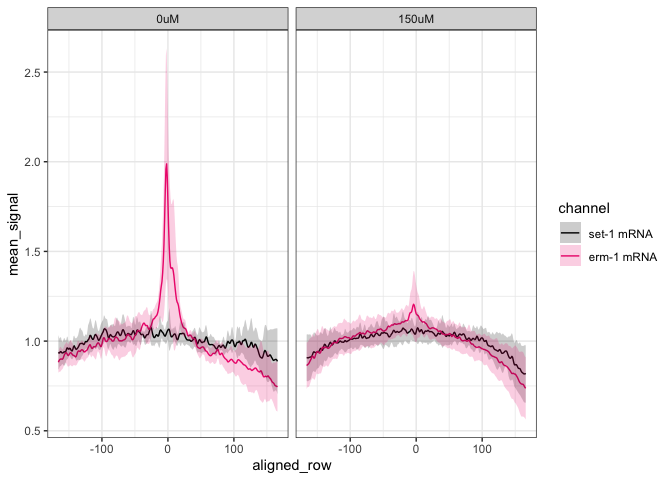
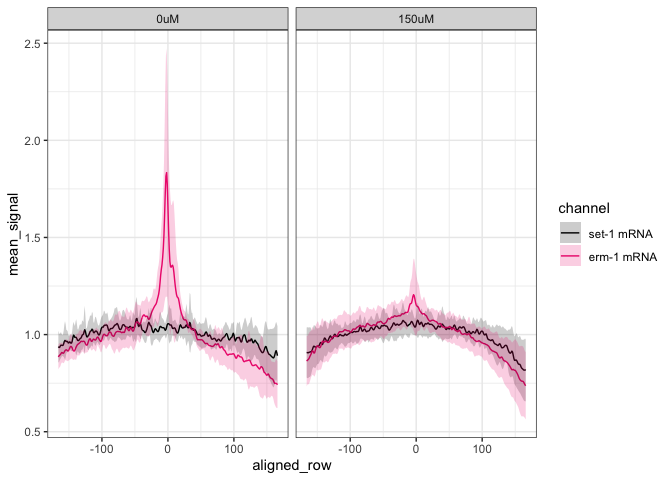
update nocodazole analysis

diff --git a/01_nocodazole_treatments/intensity_scan_analysis/README.md b/01_nocodazole_treatments/intensity_scan_analysis/README.md
@@ -28,6 +28,8 @@ Erin Osborne Nishimura
   - [Merged and averaged data](#merged-and-averaged-data)
   - [Stats](#stats)
   - [Rep- and n-values](#rep--and-n-values)
+  - [2-cell embryos selected for each
+    replicate](#2-cell-embryos-selected-for-each-replicate)
 - [Session info](#session-info)
 
 ## Load the libraries
@@ -61,7 +63,7 @@ Nocodazole was working by reporting the TBB-2::GFP patterning.
 
 ``` r
 # import the data
-control_1 <- read.table(file = "../01_input/2025-03-13_1033_datafile_for_220914_0uM_Noco_wNT002_Rep1.txt", header = FALSE, sep = "\t")
+control_1 <- read.table(file = "../01_input/2026-03-13_1033_datafile_for_220914_0uM_Noco_wNT002_Rep1.txt", header = FALSE, sep = "\t")
 control_2 <- read.table(file = "../01_input/2026-03-13_0121_datafile_for_231112_0uM_Noco_wNT002_Rep2.txt", header = FALSE, sep = "\t")
 
 test_1 <- read.table(file = "../01_input/2026-03-14_0622_datafile_for_220914_150uM_Noco_wNT002_Rep1.txt", header = FALSE, sep = "\t")
@@ -96,27 +98,7 @@ colnames(test_4) <- c("file", "channel", col_times)
 #dim(test_4)
 
 # Example of what this looks like...
-control_1[1:7,1:8]
-```
-
-    ##                                          file channel         1          2
-    ## 1                                        file channel     0.000     0.1072
-    ## 2 220914_permed_wNT002_0uM_Noco_09_R3D_D3D.dv     ch2  4927.838  4955.0391
-    ## 3 220914_permed_wNT002_0uM_Noco_09_R3D_D3D.dv     ch1  3282.429  3204.0681
-    ## 4 220914_permed_wNT002_0uM_Noco_11_R3D_D3D.dv     ch2  6553.232  6475.7100
-    ## 5 220914_permed_wNT002_0uM_Noco_11_R3D_D3D.dv     ch1 11180.594 10908.9131
-    ## 6 220914_permed_wNT002_0uM_Noco_16_R3D_D3D.dv     ch2  4500.523  4653.0015
-    ## 7 220914_permed_wNT002_0uM_Noco_16_R3D_D3D.dv     ch1  6357.355  6320.0615
-    ##            3          4          5         6
-    ## 1     0.2144     0.3215     0.4287    0.5359
-    ## 2  4944.1055  4942.7622  4938.8066 4930.8765
-    ## 3  3141.3899  3096.0930  3082.9082 3110.7231
-    ## 4  6447.5361  6479.0288  6555.7827 6661.5508
-    ## 5 10611.4062 10339.7393 10037.0146 9899.0576
-    ## 6  4767.8940  4797.5332  4711.6953 4564.0063
-    ## 7  6328.0981  6306.6831  6297.7476 6301.1558
-
-``` r
+#control_1[1:7,1:8]
 #control_2[1:9,1:8]
 #test_1[1:3,1:8]
 #test_2[1:9,1:8]
@@ -133,12 +115,7 @@ Merge the datasets together
 
 ``` r
 # Extract out the salient information from the filename and pivot the data longer - "permed" version
-control_1_exp <- control_1[2:dim(control_1)[1],] %>%
-  separate_wider_delim(file, delim = "_", names = c("date", NA, "strain", "conc", NA, "embryoID", NA, NA)) %>%
-  pivot_longer(cols = `1`:`333`, names_to = "xpoint", values_to = "intensity") %>%
-  mutate(unique_id = paste(date, strain, conc, embryoID, channel, sep = "_"))
-
-test_1_exp <- test_1[2:dim(test_1)[1],1:335] %>%
+control_1_exp <- control_1[2:dim(control_1)[1],1:335] %>%
   separate_wider_delim(file, delim = "_", names = c("date", NA, "strain", "conc", NA, "embryoID", NA, NA)) %>%
   pivot_longer(cols = `1`:`333`, names_to = "xpoint", values_to = "intensity") %>%
   mutate(unique_id = paste(date, strain, conc, embryoID, channel, sep = "_"))
@@ -148,6 +125,14 @@ control_2_exp <- control_2[2:dim(control_2)[1],1:335] %>%
   separate_wider_delim(file, delim = "_", names = c("date", "strain", "conc", NA, "embryoID", NA, NA)) %>%
   pivot_longer(cols = `1`:`333`, names_to = "xpoint", values_to = "intensity") %>%
   mutate(unique_id = paste(date, strain, conc, embryoID, channel, sep = "_"))
+
+
+test_1_exp <- test_1[2:dim(test_1)[1],1:335] %>%
+  separate_wider_delim(file, delim = "_", names = c("date", NA, "strain", "conc", NA, "embryoID", NA, NA)) %>%
+  pivot_longer(cols = `1`:`333`, names_to = "xpoint", values_to = "intensity") %>%
+  mutate(unique_id = paste(date, strain, conc, embryoID, channel, sep = "_"))
+
+
 
 test_2_exp <- test_2[2:dim(test_2)[1],1:335] %>%
   separate_wider_delim(file, delim = "_", names = c("date", "strain", "conc", NA, "embryoID", NA, NA)) %>%
@@ -246,8 +231,8 @@ table(nocodazole_norm_total$channel, nocodazole_norm_total$conc)
 
     ##      
     ##        0uM 150uM
-    ##   ch1 2331  5328
-    ##   ch2 2331  5328
+    ##   ch1 3330  5328
+    ##   ch2 3330  5328
 
 ``` r
 head(nocodazole_norm_total)
@@ -409,7 +394,7 @@ summary(log(foldChange_calc$fc_enrich, base = 2))
 ```
 
     ##     Min.  1st Qu.   Median     Mean  3rd Qu.     Max. 
-    ## -0.13913  0.05686  0.13908  0.22562  0.21840  1.50658
+    ## -0.13913  0.01306  0.12552  0.22447  0.22114  1.50658
 
 ``` r
 # plot the data - I picked two different ways to display the data
@@ -418,7 +403,7 @@ summary(log(foldChange_calc$fc_enrich, base = 2))
 d <- ggplot(data = foldChange_calc, aes(x = as.factor(channel), y = log(fc_enrich, base = 2), fill = conc))+
   geom_boxplot(outlier.shape = NA)+
   geom_jitter(position=position_jitterdodge())+
-  scale_y_continuous(limits = c(-0.5, 1.75)) +
+  scale_y_continuous(limits = c(-0.5, 2)) +
   geom_hline(yintercept = 0, linetype = "dashed") +
   scale_fill_manual(values = c("0uM" = "darkgray", "150uM" = "#2989ca"))+
   labs(y = "log2 FoldChange Enrichment of mRNA \n(mRNA intensity at 0 / mean mRNA intensity at -100 and 100)", x = "mRNA") +
@@ -459,10 +444,10 @@ stats_wilcox
 ```
 
     ## # A tibble: 2 × 10
-    ##   channel .y.   group1 group2    n1    n2 statistic       p   p.adj p.adj.signif
-    ##   <fct>   <chr> <chr>  <chr>  <int> <int>     <dbl>   <dbl>   <dbl> <chr>       
-    ## 1 ch1     fc_e… 0uM    150uM      7    16        62 0.720   0.720   ns          
-    ## 2 ch2     fc_e… 0uM    150uM      7    16       101 0.00148 0.00295 **
+    ##   channel .y.    group1 group2    n1    n2 statistic       p  p.adj p.adj.signif
+    ##   <fct>   <chr>  <chr>  <chr>  <int> <int>     <dbl>   <dbl>  <dbl> <chr>       
+    ## 1 ch1     fc_en… 0uM    150uM     10    16        76 0.856   0.856  ns          
+    ## 2 ch2     fc_en… 0uM    150uM     10    16       131 0.00605 0.0121 *
 
 ### Save the plots
 
@@ -571,16 +556,68 @@ write.table(stats_wilcox, file = filename, sep = "\t", quote = FALSE, row.names 
 noco_metadata <- nocodazole_norm_total %>% 
   select("strain", "date", "conc", "embryoID", "channel")
 
+# pick only the unique ones
+noco_metadata <- unique(noco_metadata)
+
+#dim(noco_metadata)
 #str(noco_metadata)
 # head(noco_metadata)
 
 # tabulate the number of n-values. Divide by 2 because both set-3 and erm-1 are both counted as a data point
 rep_and_n1 <- table(noco_metadata$conc, noco_metadata$date)/2
 
+rep_and_n1
+```
+
+    ##        
+    ##         220914 230210 231112 231114
+    ##   0uM        6      0      4      0
+    ##   150uM      1      5      8      2
+
+``` r
 # Save the rep- and n-values:
 today <- format(Sys.Date(), "%y%m%d")
 filename <- paste("../04_outputData/", today, "_data4_noco_n_linescan.txt", sep = "")
 write.table(rep_and_n1, file = filename, sep = "\t", quote = FALSE, row.names = TRUE)
+```
+
+### 2-cell embryos selected for each replicate
+
+``` r
+# what are the names of the embryos for each replicate?
+
+# use this
+#dim(noco_metadata)
+noco_metadata_unique <- unique(noco_metadata)
+#dim(noco_metadata_unique)
+
+# capture the list of embryos used
+embryoLists <- noco_metadata_unique %>%
+  group_by(strain, date, conc, channel) %>%
+  summarise(embryoIDList = list(embryoID), .groups = "drop") %>%
+  rowwise() %>% 
+  mutate(embryo_names = paste(embryoIDList, collapse = ", ")) %>% 
+  ungroup() %>%
+  select(-embryoIDList)
+
+head(embryoLists)
+```
+
+    ## # A tibble: 6 × 5
+    ##   strain date   conc  channel embryo_names          
+    ##   <chr>  <chr>  <chr> <chr>   <chr>                 
+    ## 1 wNT002 220914 0uM   ch1     09, 10, 11, 15, 16, 18
+    ## 2 wNT002 220914 0uM   ch2     09, 10, 11, 15, 16, 18
+    ## 3 wNT002 220914 150uM ch1     25                    
+    ## 4 wNT002 220914 150uM ch2     25                    
+    ## 5 wNT002 230210 150uM ch1     06, 07, 08, 09, 11    
+    ## 6 wNT002 230210 150uM ch2     06, 07, 08, 09, 11
+
+``` r
+# Save the embryo numbers:
+today <- format(Sys.Date(), "%y%m%d")
+filename <- paste("../04_outputData/", today, "_data5_noco_embryos_selected.txt", sep = "")
+write.table(embryoLists, file = filename, sep = "\t", quote = FALSE, row.names = FALSE)
 ```
 
 ## Session info
